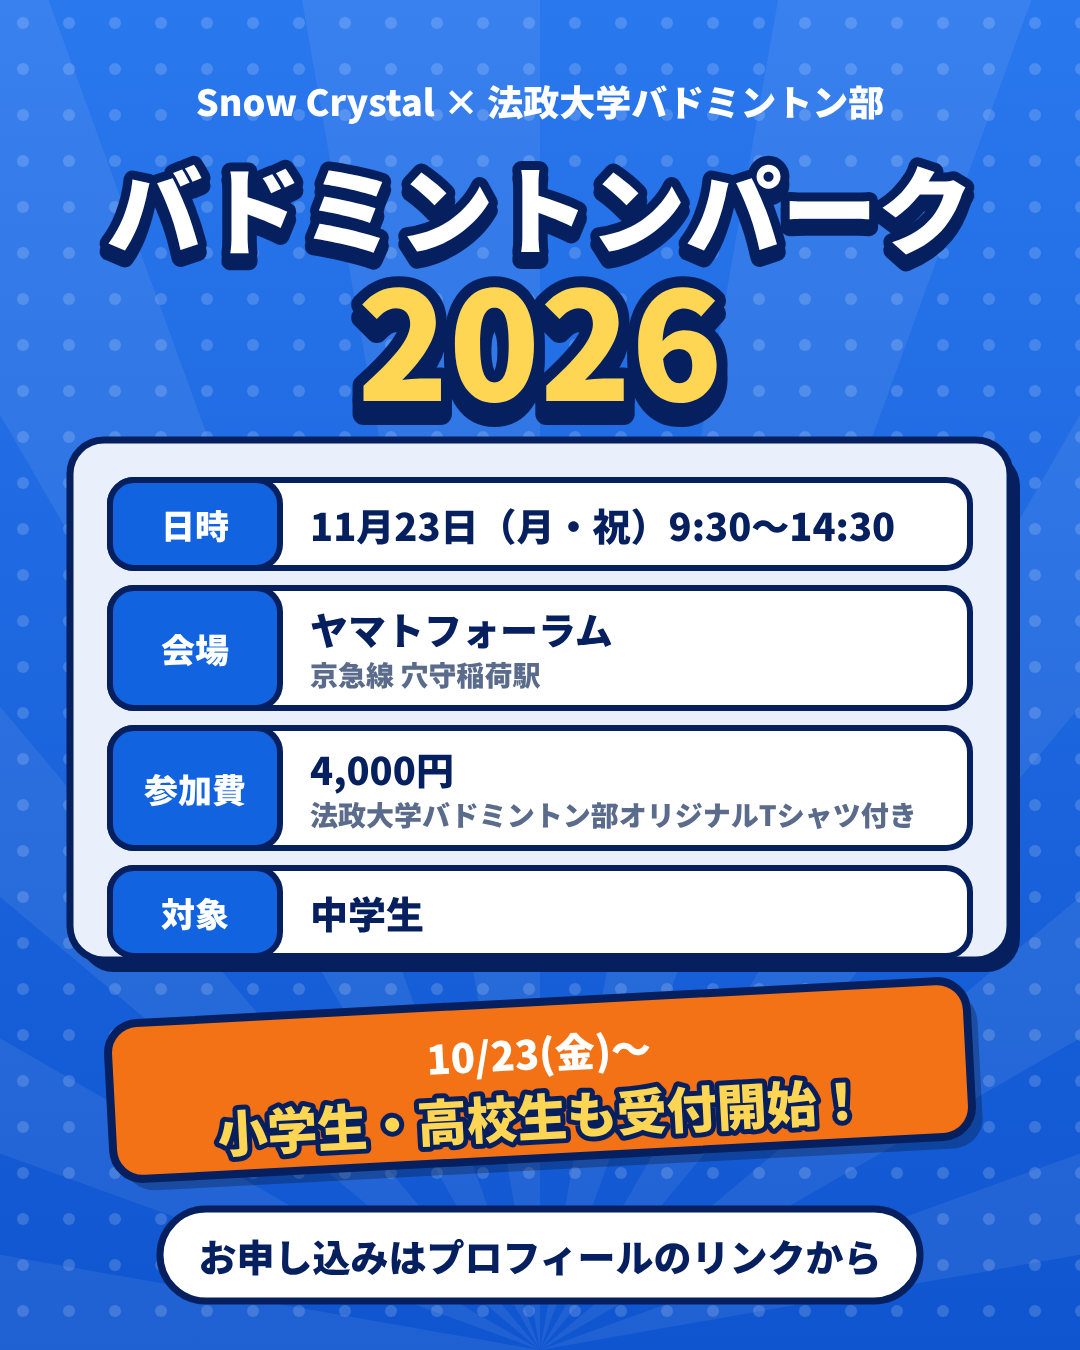
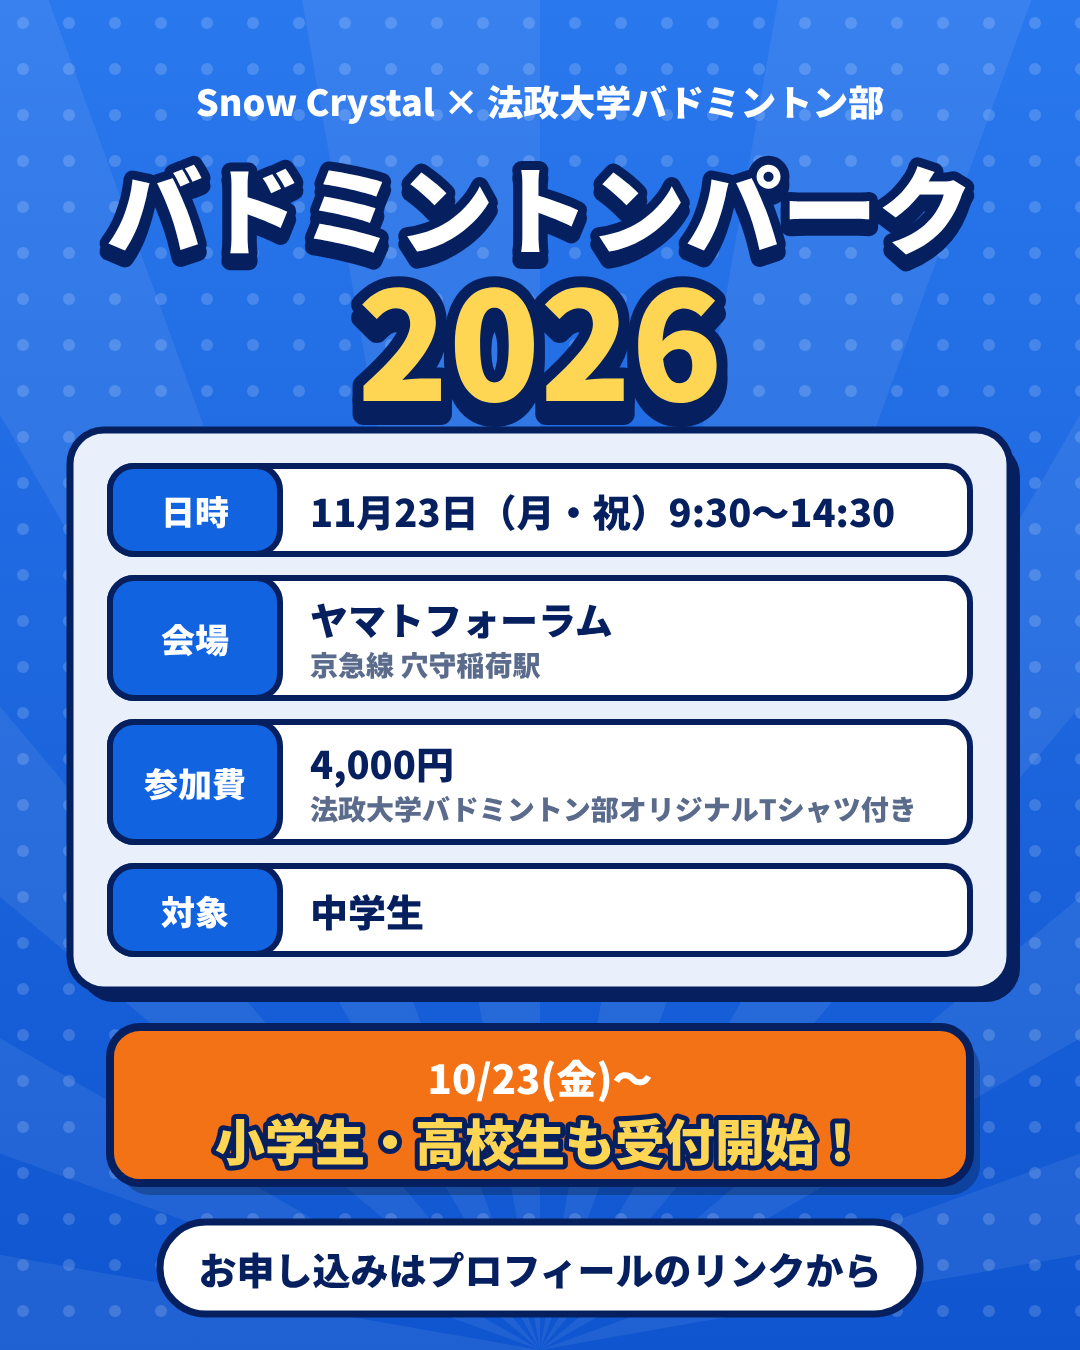
カルーセル8枚目: 対象の枠が切れないよう調整、受付開始の帯を水平に
Claude-Session: https://claude.ai/code/session_01FUrcSuU1LtPQWz1MTbAvHW

Changed region(s): [[0.0611, 0.3111, 0.9472, 0.9956], [0.8861, 0.5911, 0.9167, 0.6222], [0.0917, 0.84, 0.1222, 0.8711]]

diff --git a/instagram/program-carousel/index.html b/instagram/program-carousel/index.html
@@ -166,14 +166,14 @@ function s8(){
  return slide(`<rect width="${W}" height="${H}" fill="url(#g2)"/><g transform="translate(540,1350)">${rays(18,'#fff',.07)}</g><rect width="${W}" height="${H}" fill="url(#dA)"/>
   <text x="540" y="100" font-size="36" fill="#fff">Snow Crystal × 法政大学バドミントン部</text>
   ${TT(540,205,'バドミントンパーク',96,'#fff',INK,18)}${TT(540,335,'2026',150,'#FFD654',INK,22)}
-  ${card(70,440,940,520,PALE,34)}
-  ${row(480,'日時','11月23日（月・祝）9:30〜14:30')}
-  ${row(588,'会場','ヤマトフォーラム','京急線 穴守稲荷駅')}
-  ${row(728,'参加費','4,000円','法政大学バドミントン部オリジナルTシャツ付き')}
-  ${row(868,'対象','中学生')}
-  <g transform="translate(540,1080) rotate(-3)"><rect x="-430" y="-78" width="860" height="156" rx="30" fill="#000" opacity=".25" transform="translate(10,12)"/><rect x="-430" y="-78" width="860" height="156" rx="30" fill="${OR}" stroke="${INK}" stroke-width="8"/>
+  ${card(70,430,940,560,PALE,34)}
+  ${row(466,'日時','11月23日（月・祝）9:30〜14:30')}
+  ${row(578,'会場','ヤマトフォーラム','京急線 穴守稲荷駅')}
+  ${row(722,'参加費','4,000円','法政大学バドミントン部オリジナルTシャツ付き')}
+  ${row(866,'対象','中学生')}
+  <g transform="translate(540,1105)"><rect x="-430" y="-78" width="860" height="156" rx="30" fill="#000" opacity=".25" transform="translate(10,12)"/><rect x="-430" y="-78" width="860" height="156" rx="30" fill="${OR}" stroke="${INK}" stroke-width="8"/>
    <text y="-28" font-size="40" fill="#fff">10/23(金)〜</text><text y="34" font-size="50" fill="#FFD654" stroke="${INK}" stroke-width="10" style="paint-order:stroke">小学生・高校生も受付開始！</text></g>
-  <g transform="translate(540,1255)"><rect x="-380" y="-46" width="760" height="92" rx="46" fill="#fff" stroke="${INK}" stroke-width="7"/><text font-size="38" fill="${INK}">お申し込みはプロフィールのリンクから</text></g>`);}
+  <g transform="translate(540,1268)"><rect x="-380" y="-46" width="760" height="92" rx="46" fill="#fff" stroke="${INK}" stroke-width="7"/><text font-size="38" fill="${INK}">お申し込みはプロフィールのリンクから</text></g>`);}
 
 document.getElementById('root').innerHTML=[s1(),s2(),s3(),s4(),s5(),s6(),s7(),s8()].join('');
 </script></body></html>
